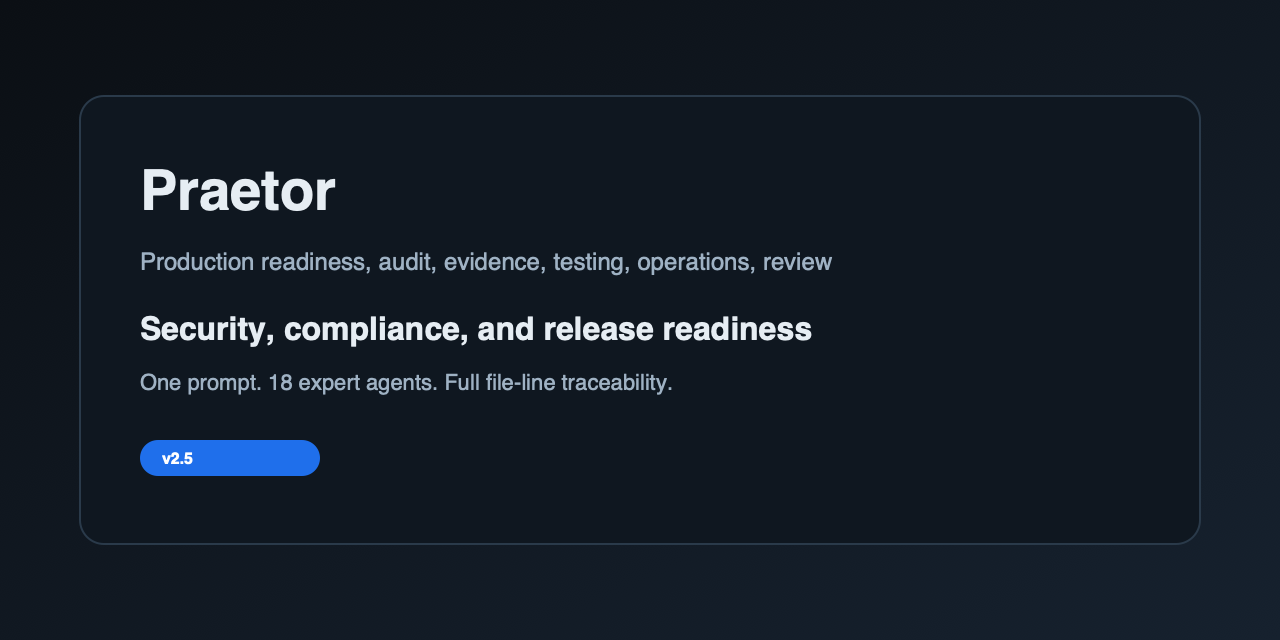
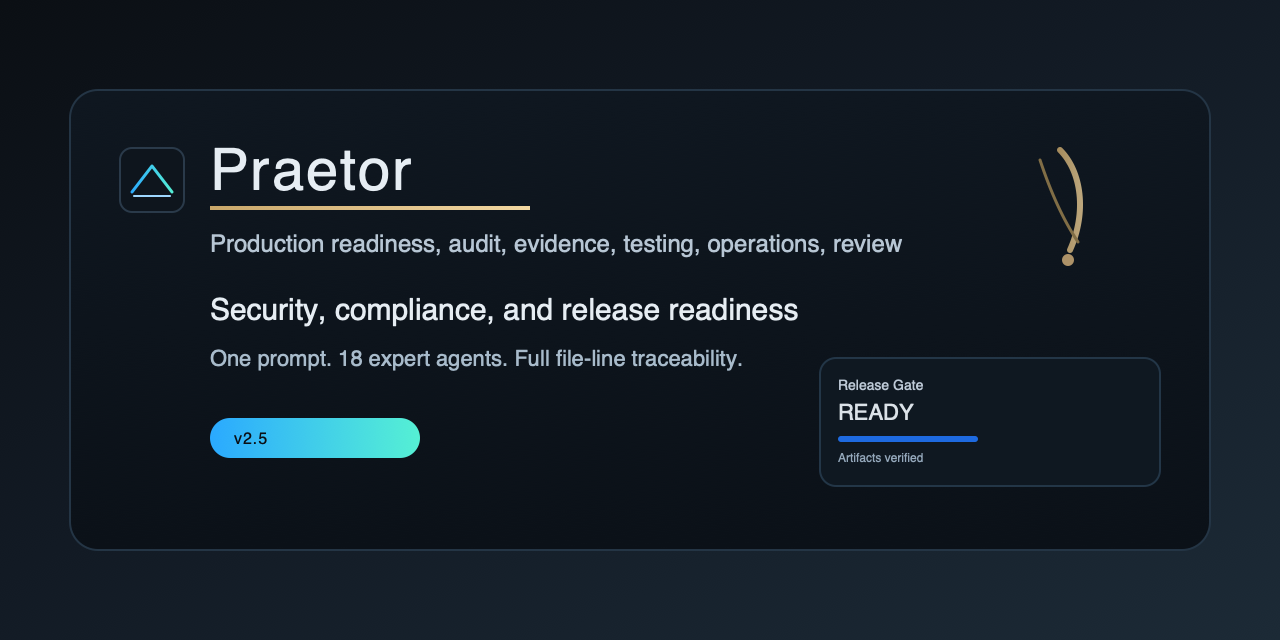
feat: Update README and social preview assets for enhanced presentation and clarity

diff --git a/README.md b/README.md
@@ -1,10 +1,16 @@
 # Praetor
 
+![Praetor Social Preview](assets/social-preview.svg)
+
 > **P**roduction **R**eadiness, **A**udit, **E**vidence, **T**esting, **O**perations, & **R**eview
 
 A single-prompt, multi-agent system that turns any codebase into a production readiness and audit package with full file-line traceability.
 
 Built for security, compliance, governance, and release readiness.
+
+## [Praetor](https://en.wikipedia.org/wiki/Praetor)
+
+Praetor, also pretor, was the title granted by the government of ancient Rome to a man acting in one of two official capacities: the commander of an army, and as an elected magistratus, assigned to discharge various duties.
 
 ## What is Praetor?
 